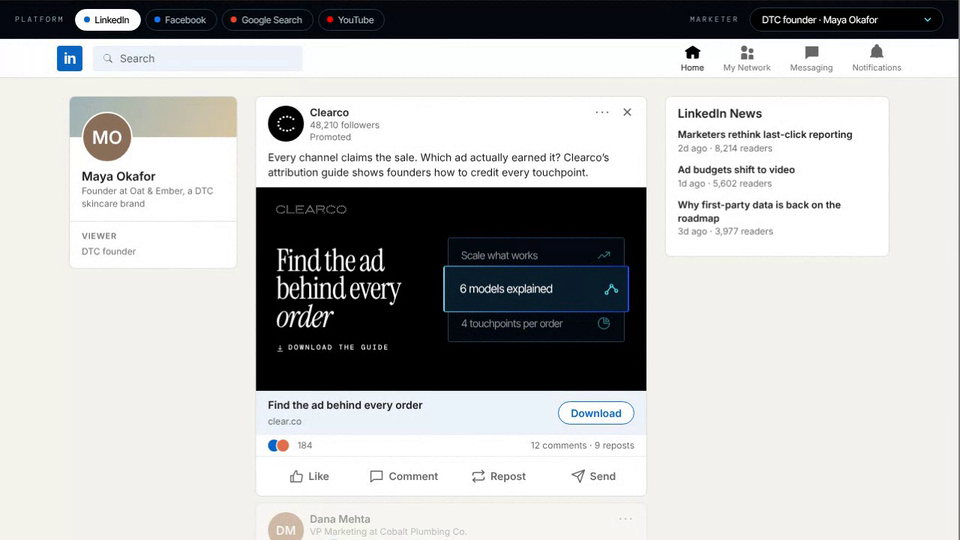
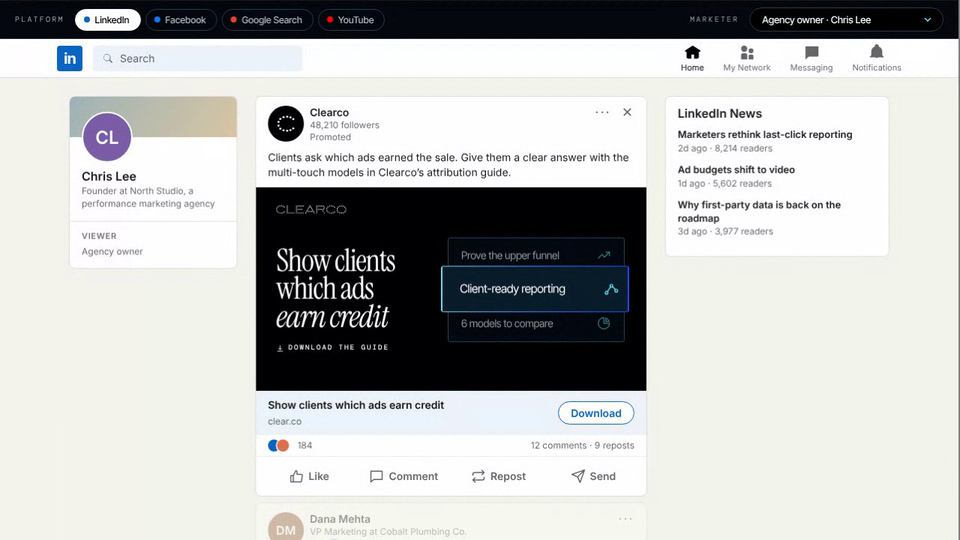
Paid Ad Pipeline: open on Agency owner, middle rolodex card 3px wider
Claude-Session: https://claude.ai/code/session_016rpguaETsCiVqR7f54g7FW

diff --git a/clearco-paid-ad-pipeline/index.html b/clearco-paid-ad-pipeline/index.html
@@ -63,7 +63,7 @@ nav.back span{color:#6e6e6e}nav.back b{font-weight:500;color:#fff;overflow:hidde
 /* the back cards sit on one fixed panel, so only their text rolls; just the middle card has its own moving frame */
 .cr .stage::before{content:"";position:absolute;left:-1.75cqw;right:11.25cqw;top:50%;height:53cqw;margin-top:-26.5cqw;border:1px solid #24465c;border-radius:3px;background:rgba(4,10,16,.94);pointer-events:none}
 /* the highlighted front frame is fixed too: one size, one place; the cards' text fades through it */
-.cr .stage .hl{position:absolute;left:-4cqw;right:9cqw;top:50%;height:24cqw;margin-top:-12cqw;border:1px solid #24465c;border-radius:3px;background:rgba(10,30,44,.97)}
+.cr .stage .hl{position:absolute;left:-5.15cqw;right:9cqw;top:50%;height:24cqw;margin-top:-12cqw;border:1px solid #24465c;border-radius:3px;background:rgba(10,30,44,.97)}
 .cr .stage .hl::before{content:"";position:absolute;inset:-1px;border-radius:inherit;padding:1.5px;background:linear-gradient(90deg,#2447f5,#3b8cff 25%,#62e6f3 50%,#3b8cff 75%,#2447f5) 0 0/200% 100%;-webkit-mask:linear-gradient(#000 0 0) content-box,linear-gradient(#000 0 0);-webkit-mask-composite:xor;mask:linear-gradient(#000 0 0) content-box exclude,linear-gradient(#000 0 0);pointer-events:none;animation:flow 6s linear infinite}
 .cr .bl .bx{display:none}
 .cr .bl>div{position:relative;transition:transform .7s cubic-bezier(.2,.7,.2,1)}
@@ -555,7 +555,7 @@ const P=[
  {k:'yt',n:'YouTube',c:'#ff0000',src:'youtube',med:'paid_video',j:0,imp:1.9,ctr:.28,cpc:.45,lp:.75,cv:.7}];
 /* attribution models, as in the guide: credit for [YouTube, Google Search, LinkedIn, Facebook] in journey order */
 const MODELS=[['First-touch',[100,0,0,0]],['Last-touch',[0,0,0,100]],['Linear',[25,25,25,25]],['Time-decay',[5,15,30,50]],['U-shaped',[40,10,10,40]],['W-shaped',[30,30,10,30]]];
-const state={s:1,m:0,p:0,metric:'clicks',model:3}; // m: marketer (-1 = all, performance screen only), p: platform index (-1 = all, performance screen only)
+const state={s:1,m:4,p:0,metric:'clicks',model:3}; // m: marketer (-1 = all, performance screen only), p: platform index (-1 = all, performance screen only)
 
 function tile(n,fn){const c=document.createElement('canvas');c.width=c.height=n;const g=c.getContext('2d'),d=g.createImageData(n,n);for(let i=0;i<n*n;i++)fn(d.data,i*4,Math.random());g.putImageData(d,0,0);return c}
 document.documentElement.style.setProperty('--grain','url('+tile(128,(p,i,v)=>{const w=v>.5;p[i]=p[i+1]=p[i+2]=w?255:0;p[i+3]=Math.round(Math.abs(v-.5)*2*120)}).toDataURL()+')');
